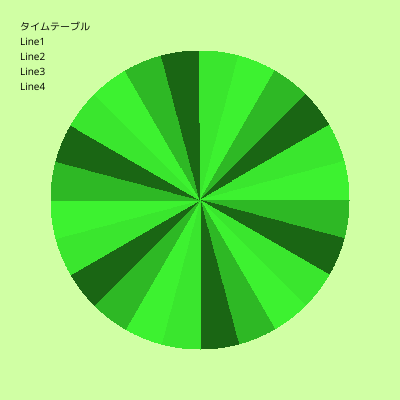
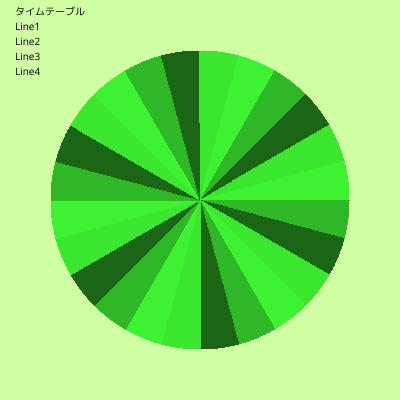
mod text pos

Changed region(s): [[0.03, 0.0, 0.15, 0.24], [0.18, 0.0, 0.24, 0.09]]

diff --git a/main.go b/main.go
@@ -63,7 +63,7 @@ func Main() error {
 
 	opt := &truetype.Options{Size: 10}
 	for k, s := range []string{"タイムテーブル", "Line1", "Line2", "Line3", "Line4"} {
-		drawString(img, 20, 30+(15*k), s, opt)
+		drawString(img, 15, 15+(15*k), s, opt)
 	}
 
 	f, err := os.Create("image.png")
